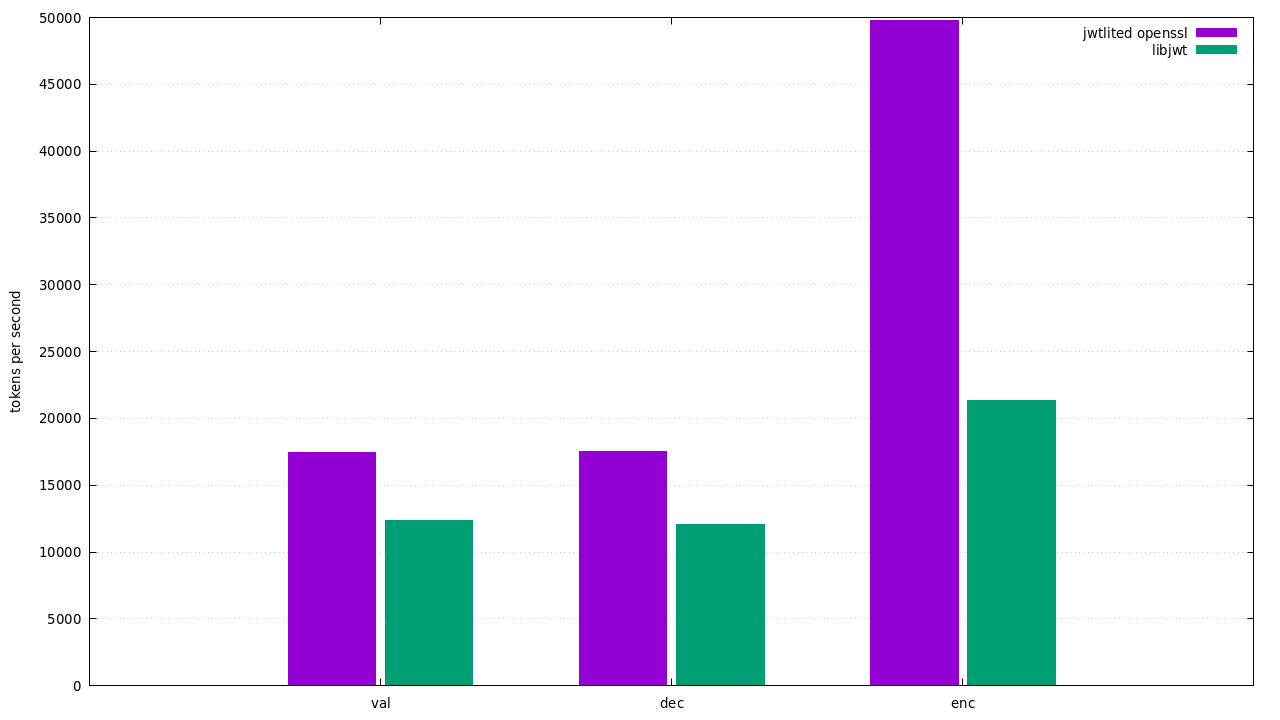
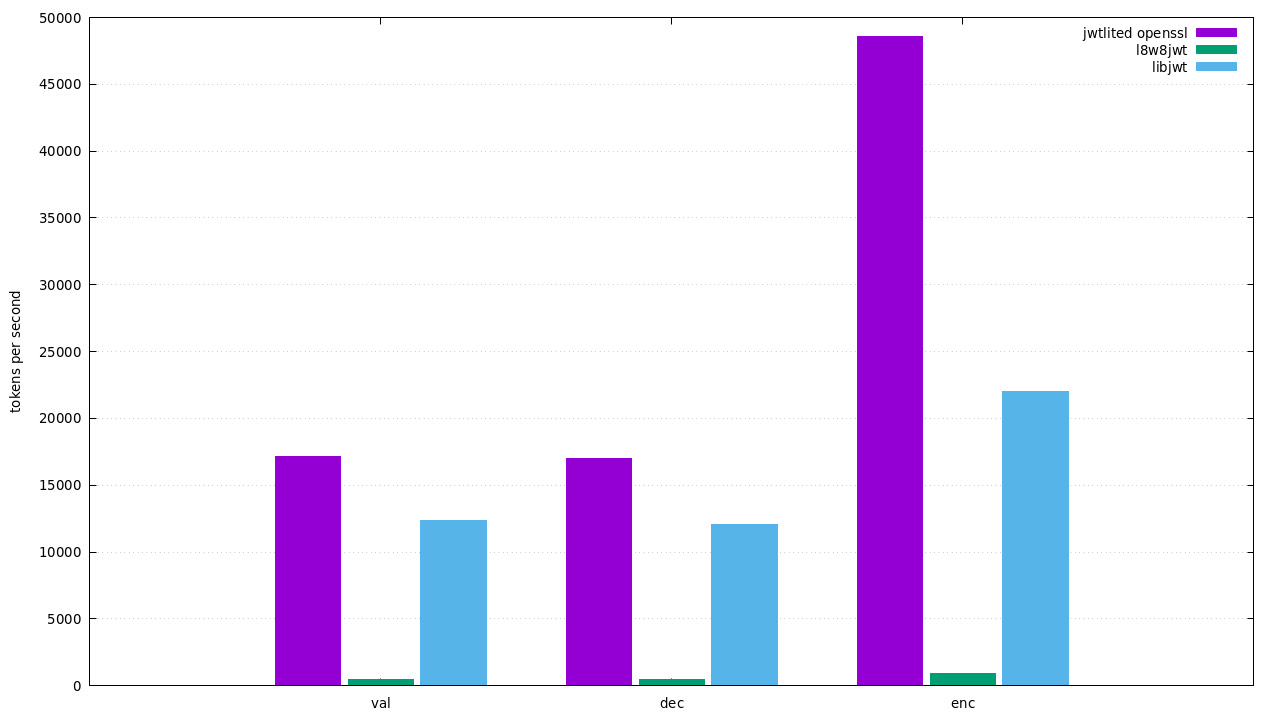
l8w8jwt results

diff --git a/benchmarks/README.md b/benchmarks/README.md
@@ -7,7 +7,7 @@ This directory contains benchmarks of various JWT parsers.
 * [jwtd](https://code.dlang.org/packages/jwtd) - most used dlang JWT lib
 * [fastjwt](https://code.dlang.org/packages/fastjwt) - alternative with much less GC usage, but phobos only
 * [libjwt](https://github.com/benmcollins/libjwt)  - most liked C library on [jwt.io](https://jwt.io) to have some comparison with other languages
-* [l8w8jwt](https://github.com/GlitchedPolygons/l8w8jwt) - another neat C library
+* [l8w8jwt](https://github.com/GlitchedPolygons/l8w8jwt) - another neat C library that uses [MbedTLS](https://tls.mbed.org/) instead of OpenSSL
 
 There are other D libraries like:
 
@@ -98,21 +98,21 @@ All benchmark binaries consists pretty much with the same dlang boilerplate (eve
 
 ![results](https://github.com/tchaloupka/jwtlited/blob/main/benchmarks/results/speed_hs256.png)
 
-|     | fastjwt | jwtd botan | jwtd openssl | jwtd phobos | jwtlited openssl | jwtlited phobos | libjwt |
-|:---:| -------:| ----------:| ------------:| -----------:| ----------------:| ---------------:| ------:|
-| val |  194855 |      95748 |       484496 |      172294 |          2439024 |          208073 | 266098 |
-| dec |  193573 |      82603 |       304506 |      139004 |          1945525 |          203998 | 173130 |
-| enc |  170183 |      94375 |       467289 |      171115 |          1984126 |          201857 | 219490 |
+|     | fastjwt | jwtd botan | jwtd openssl | jwtd phobos | jwtlited openssl | jwtlited phobos | l8w8jwt | libjwt |
+|:---:| -------:| ----------:| ------------:| -----------:| ----------------:| ---------------:| -------:| ------:|
+| val |  200000 |      93879 |       461680 |      167785 |          2155172 |          206526 |  391236 | 263574 |
+| dec |  200000 |      81873 |       287852 |      138657 |          1992031 |          203998 |  399680 | 175070 |
+| enc |  172592 |      92661 |       451671 |      168123 |          2049180 |          207382 |  134661 | 217770 |
 
 #### GC memory used
 
 ![results](https://github.com/tchaloupka/jwtlited/blob/main/benchmarks/results/gcusage_hs256.png)
 
-|     | fastjwt | jwtd botan | jwtd openssl | jwtd phobos | jwtlited openssl | jwtlited phobos | libjwt |
-|:---:| -------:| ----------:| ------------:| -----------:| ----------------:| ---------------:| ------:|
-| val | 22.8882 |    526.429 |      419.617 |     419.617 |                0 |               0 |      0 |
-| dec | 22.8882 |    946.046 |      839.234 |     839.234 |                0 |               0 |      0 |
-| enc | 22.8889 |    595.099 |      488.287 |     488.287 |                0 |               0 |      0 |
+|     | fastjwt | jwtd botan | jwtd openssl | jwtd phobos | jwtlited openssl | jwtlited phobos | l8w8jwt | libjwt |
+|:---:| -------:| ----------:| ------------:| -----------:| ----------------:| ---------------:| -------:| ------:|
+| val | 22.8882 |    526.429 |      419.617 |     419.617 |                0 |               0 |       0 |      0 |
+| dec | 22.8882 |    946.046 |      839.234 |     839.234 |                0 |               0 |       0 |      0 |
+| enc | 22.8889 |    595.099 |      488.287 |     488.287 |                0 |               0 |       0 |      0 |
 
 ### RSA RS256 signature
 
@@ -120,11 +120,11 @@ All benchmark binaries consists pretty much with the same dlang boilerplate (eve
 
 ![results](https://github.com/tchaloupka/jwtlited/blob/main/benchmarks/results/speed_rs256.png)
 
-|     | jwtd openssl | jwtlited openssl | libjwt |
-|:---:| ------------:| ----------------:| ------:|
-| val |        32113 |            59523 |  31152 |
-| dec |        31230 |            59101 |  29463 |
-| enc |         1165 |             1926 |   1157 |
+|     | jwtd openssl | jwtlited openssl | l8w8jwt | libjwt |
+|:---:| ------------:| ----------------:| -------:| ------:|
+| val |        31969 |            58754 |   15752 |  31367 |
+| dec |        31055 |            59453 |   15873 |  29052 |
+| enc |         1150 |             1890 |     380 |   1143 |
 
 ### ECDSA ES256 signature
 
@@ -132,8 +132,8 @@ All benchmark binaries consists pretty much with the same dlang boilerplate (eve
 
 ![results](https://github.com/tchaloupka/jwtlited/blob/main/benchmarks/results/speed_es256.png)
 
-|     | jwtlited openssl | libjwt |
-|:---:| ----------------:| ------:|
-| val |            17421 |  12373 |
-| dec |            17488 |  12056 |
-| enc |            49751 |  21303 |
+|     | jwtlited openssl | l8w8jwt | libjwt |
+|:---:| ----------------:| -------:| ------:|
+| val |            17111 |     471 |  12333 |
+| dec |            16989 |     470 |  12042 |
+| enc |            48590 |     932 |  21997 |
